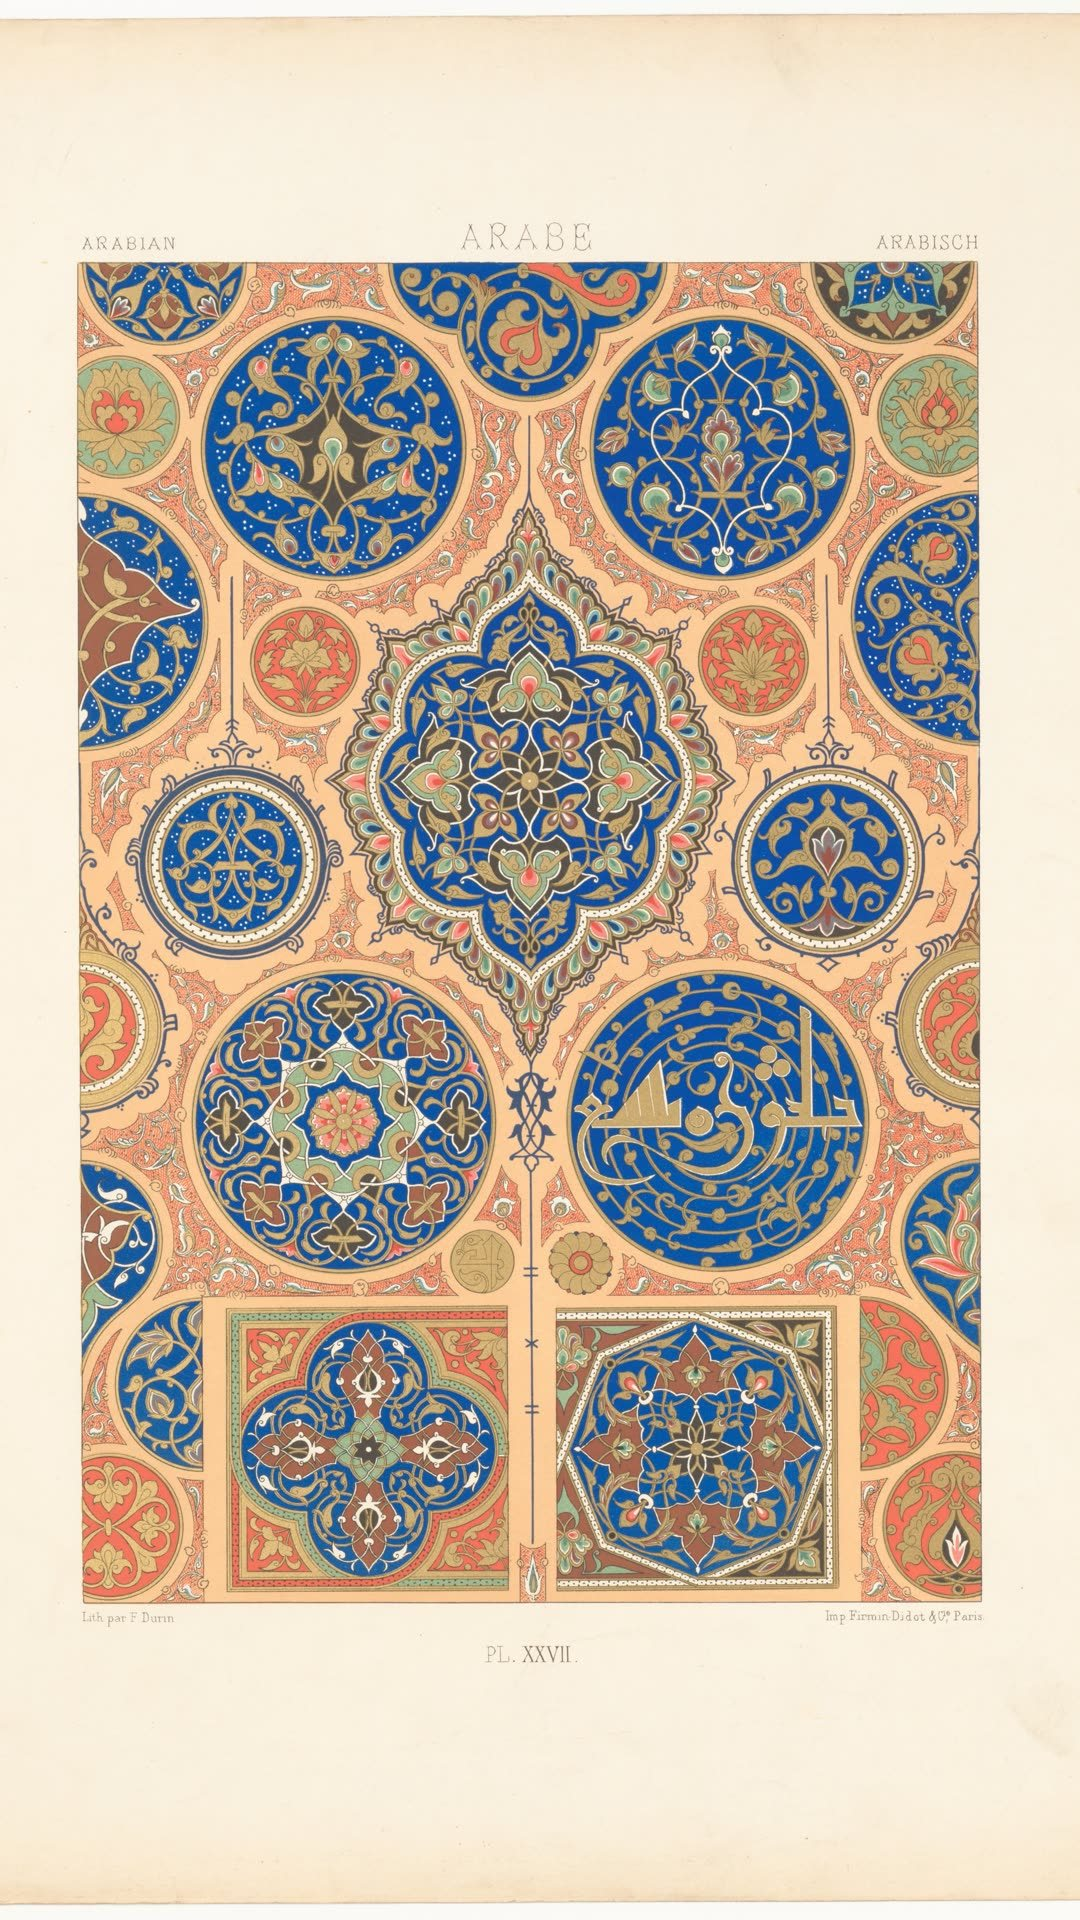
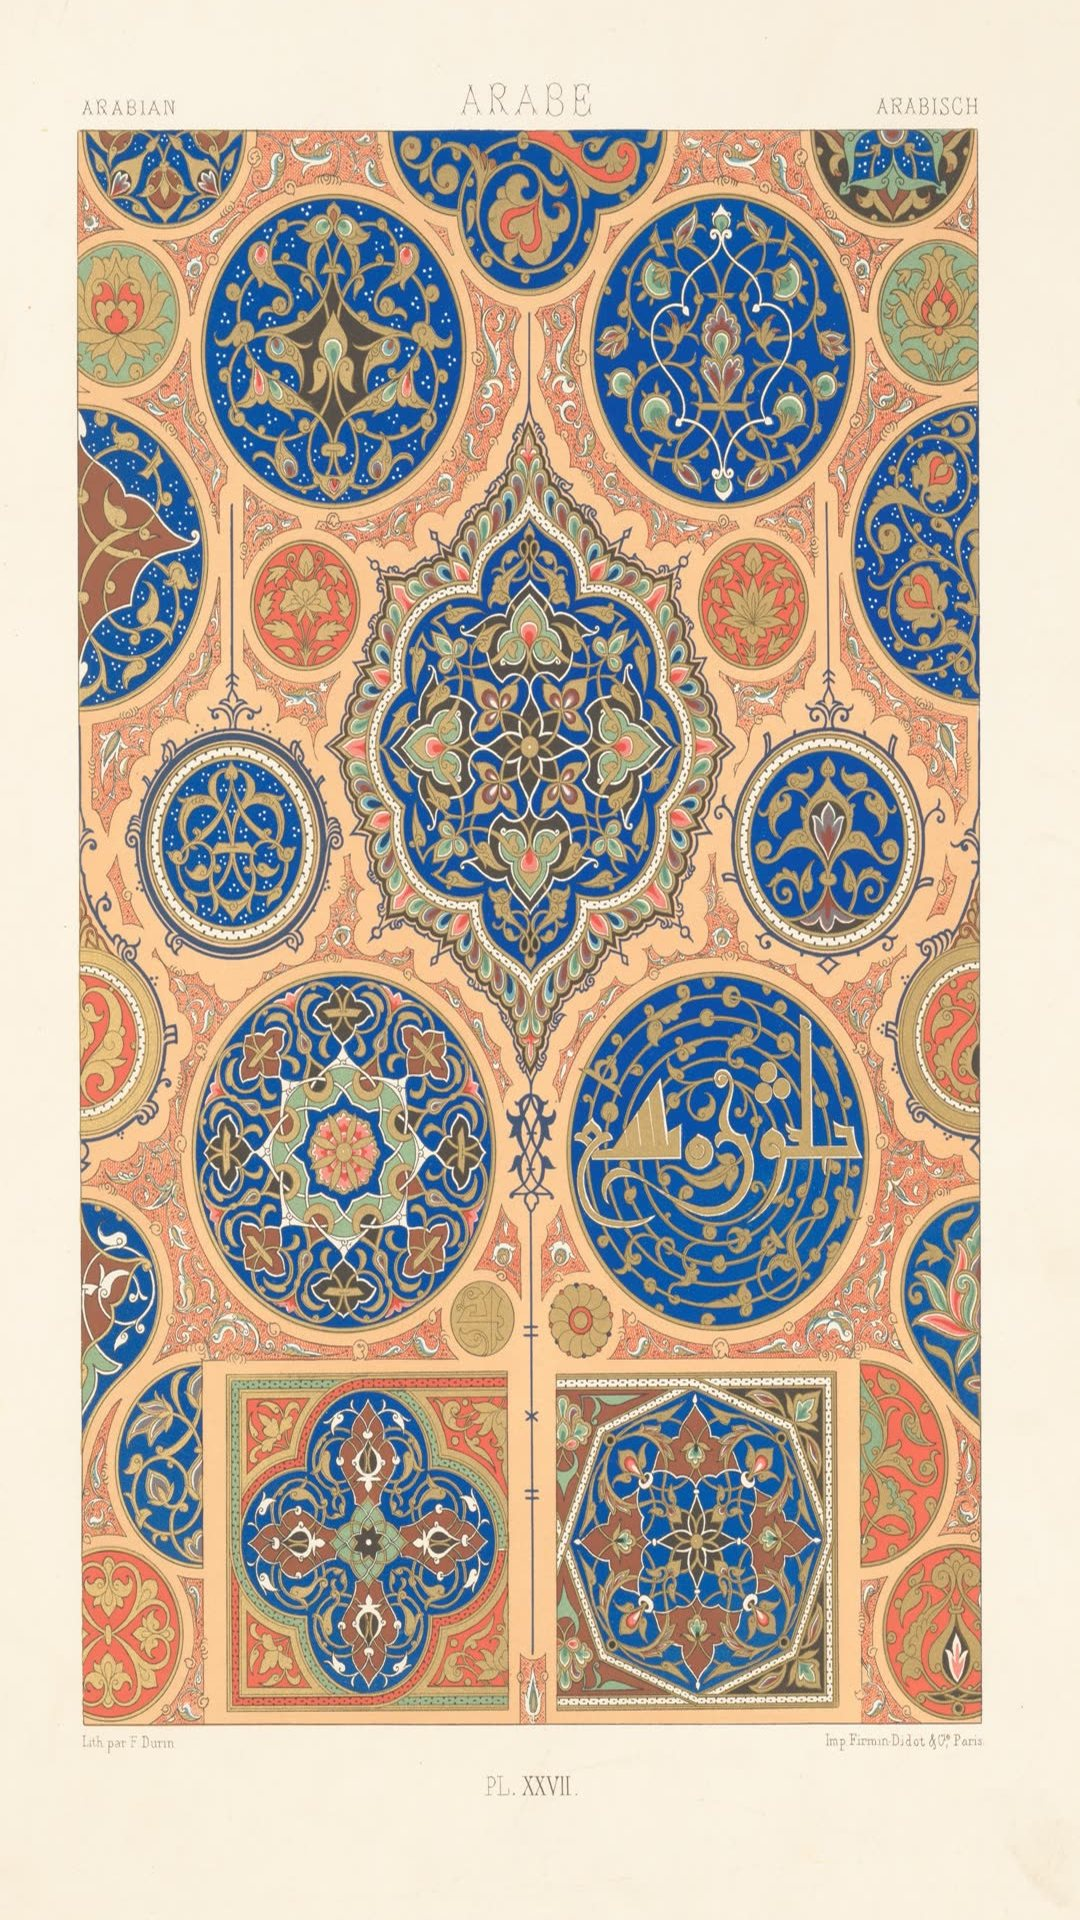
checkpoint(wip): quote card backgrounds verified on emulator-5554: three different pictures in three opens, the saying legible on every one, book and author on the card. The four ornament-book plates are cropped past their printed margins - a Latin running head like PARALLEL of HISTORICAL ORNAMENT s

diff --git a/scripts/curate_quote_backgrounds.py b/scripts/curate_quote_backgrounds.py
@@ -77,6 +77,21 @@ REJECT = {
 }
 
 
+# Four of the eleven are plates from 19th-century ornament books, and their
+# printed captions — «PARALLEL of HISTORICAL ORNAMENT», «SLOH ARABSKÝ» — sit
+# in the top and bottom margins. Seen on emulator-5554 behind an Arabic
+# saying, a Latin running head is exactly the sort of thing that makes a card
+# look borrowed. The plate is cropped in past its margins; the 1.3x rescale
+# that costs is invisible under an 80% scrim, and it keeps the picture rather
+# than dropping it.
+PLATE_INSET = {
+    "parallel_of_historical_ornament_arabian_and_moor": 0.14,
+    "ornament_sborn_k_slohov_ch_ozdob_v_ech_obdob_um_": 0.12,
+    "styles_of_ornament_exhibited_in_designs_and_arra": 0.12,
+    "l_ornement_polychrome_met_dp146521": 0.08,
+}
+
+
 def luminance(rgb):
     def ch(v):
         v /= 255.0
@@ -127,6 +142,12 @@ def main():
             continue
 
         im = Image.open(os.path.join(SRC, name)).convert("RGB")
+        inset = next((v for k, v in PLATE_INSET.items()
+                      if vid.startswith(k[:40])), 0.0)
+        if inset:
+            cut = int(im.height * inset)
+            im = im.crop((0, cut, im.width, im.height - cut)).resize(
+                (1080, 1920), Image.LANCZOS)
         bright = brightest_block(im)
         # What the eye receives where the picture is brightest.
         composite = tuple(

diff --git a/HANDOVER.md b/HANDOVER.md
@@ -808,9 +808,9 @@ Licence CC BY-NC-ND (non-commercial — fine for this sideloaded app).
 ## Current work in progress
 
 <!-- WIP:START -->
-**2026-09-10 12:46 — IN PROGRESS — resume here**
+**2026-09-10 12:56 — IN PROGRESS — resume here**
 
-photographic quote backgrounds, licence-checked one file at a time. Pixabay and Pexels 403 without a key and Mixkits licence is rendered by JavaScript - an unreadable licence is a no - so the source is Wikimedia Commons, which states each files licence machine-readably: 190 candidates from curated Islamic-ornament CATEGORIES (a free-text search had returned Hindu temple carvings from Karnataka), 37 public domain or CC0, 18 downloaded, and then somebody looked at them and threw out seven that were paintings of people, a page of an illuminated Quran manuscript, and a snapshot with a wall clock and plastic bags in it. The eleven that ship were measured through the exact scrim the card draws - brightest 60px region, 9:1 at worst. Also: the notification title and body no longer both name the prayer, which the owner spotted in the shade
+quote card backgrounds verified on emulator-5554: three different pictures in three opens, the saying legible on every one, book and author on the card. The four ornament-book plates are cropped past their printed margins - a Latin running head like PARALLEL of HISTORICAL ORNAMENT sitting over an Arabic saying looked borrowed
 
 _Uncommitted at the time of writing: see `git status`. If this says
 IN PROGRESS, the previous session likely ran out of quota here — read the last
